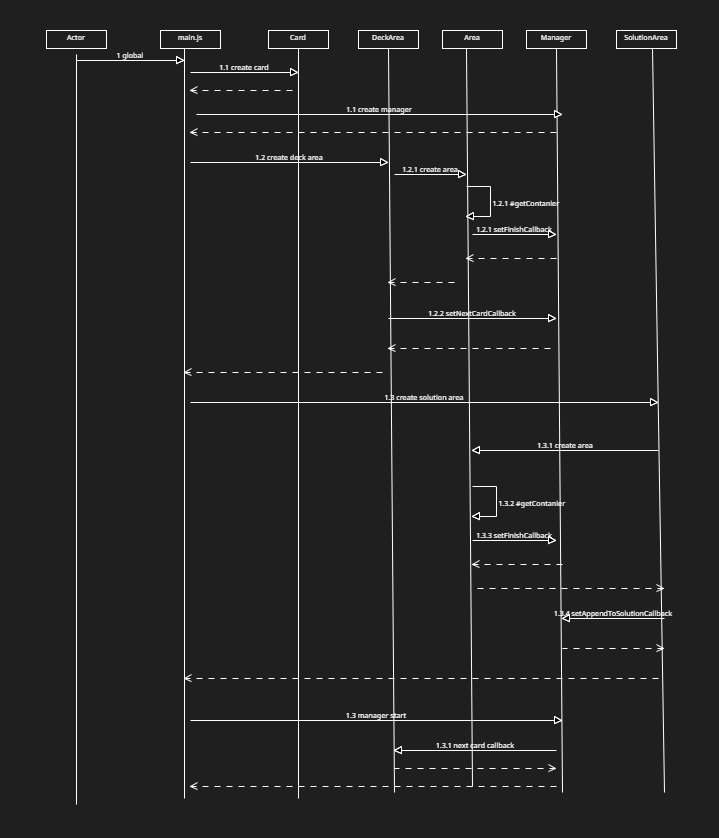
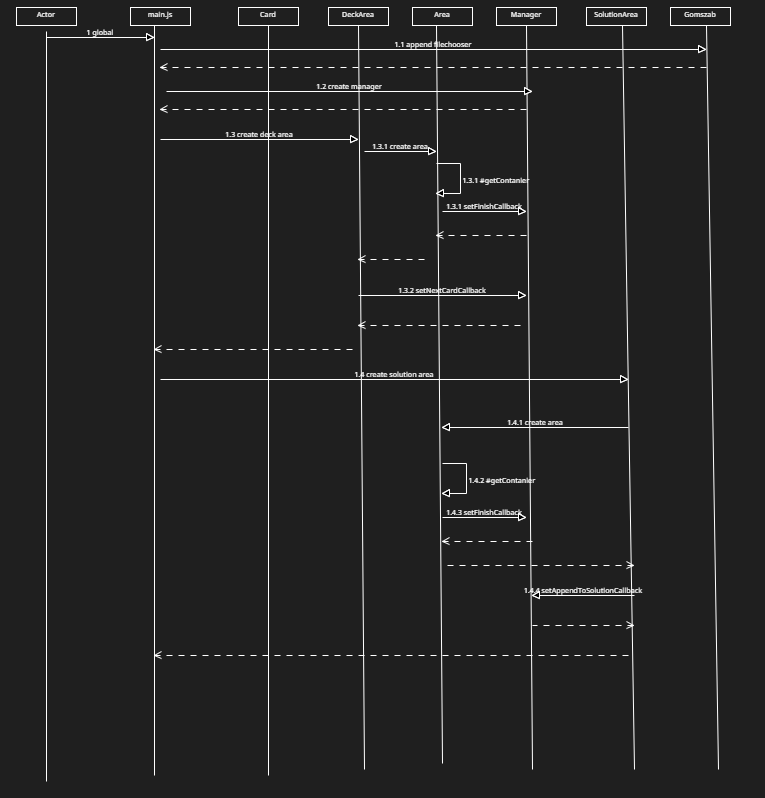
add fileuploader

diff --git a/app/select/main.js b/app/select/main.js
@@ -1,53 +1,14 @@
-const array = [
-    {
-      "text": "A honfoglalás során a magyar törzsek a 9-10. században érkeztek a Kárpát-medencébe.",
-      "right": true
-    },
-    {
-      "text": "Az 1526-os mohácsi csatában II. Lajos király győzelmet aratott az oszmán seregek felett.",
-      "right": false
-    },
-    {
-      "text": "A nándorfehérvári diadal 1456-ban történt Hunyadi János és Kapisztrán János vezetésével.",
-      "right": true
-    },
-    {
-      "text": "A tatárjárás során IV. Béla király nem tett semmilyen intézkedést az ország újjáépítésére.",
-      "right": false
-    },
-    {
-      "text": "Az ország három részre szakadt Buda török kézre kerülése után, 1541-ben.",
-      "right": true
-    },
-    {
-      "text": "Hunyadi Mátyás uralkodása alatt Magyarországot soha nem érte külső támadás.",
-      "right": false
-    },
-    {
-      "text": "Az 1848-49-es forradalom és szabadságharc vezetője Kossuth Lajos volt.",
-      "right": true
-    },
-    {
-      "text": "1956-ban Magyarországon kommunista forradalom tört ki a szovjet megszállás támogatására.",
-      "right": false
-    },
-    {
-      "text": "1946. február 1-jén kikiáltották a Magyar Köztársaságot.",
-      "right": true
-    },
-    {
-      "text": "A magyarok soha nem szenvedtek vereséget az oszmán birodalom ellen vívott csatákban.",
-      "right": false
-    }
-  ]
+const manager = new Manager();
+Gomszab.addFileUploader(fileResult => {
+  const fileLines = fileResult.split('\n');
+  for(const line of fileLines){
+    const fields = line.split(';');
+    const correct= fields[1].trim() === '1' ? true: false;
 
-const managerArray = []
-for(const elem of array){
-    const card = new Card(elem.text, elem.right);
-    managerArray.push(card);
-}
-
-const manager = new Manager(managerArray);
+    const card = new Card(fields[0], correct);
+    manager.add(card);
+  }
+  manager.start();
+})
 const deckArea = new DeckArea('deck', manager);
 const solutionArea = new SolutionArea('solution', manager);
-manager.start()
